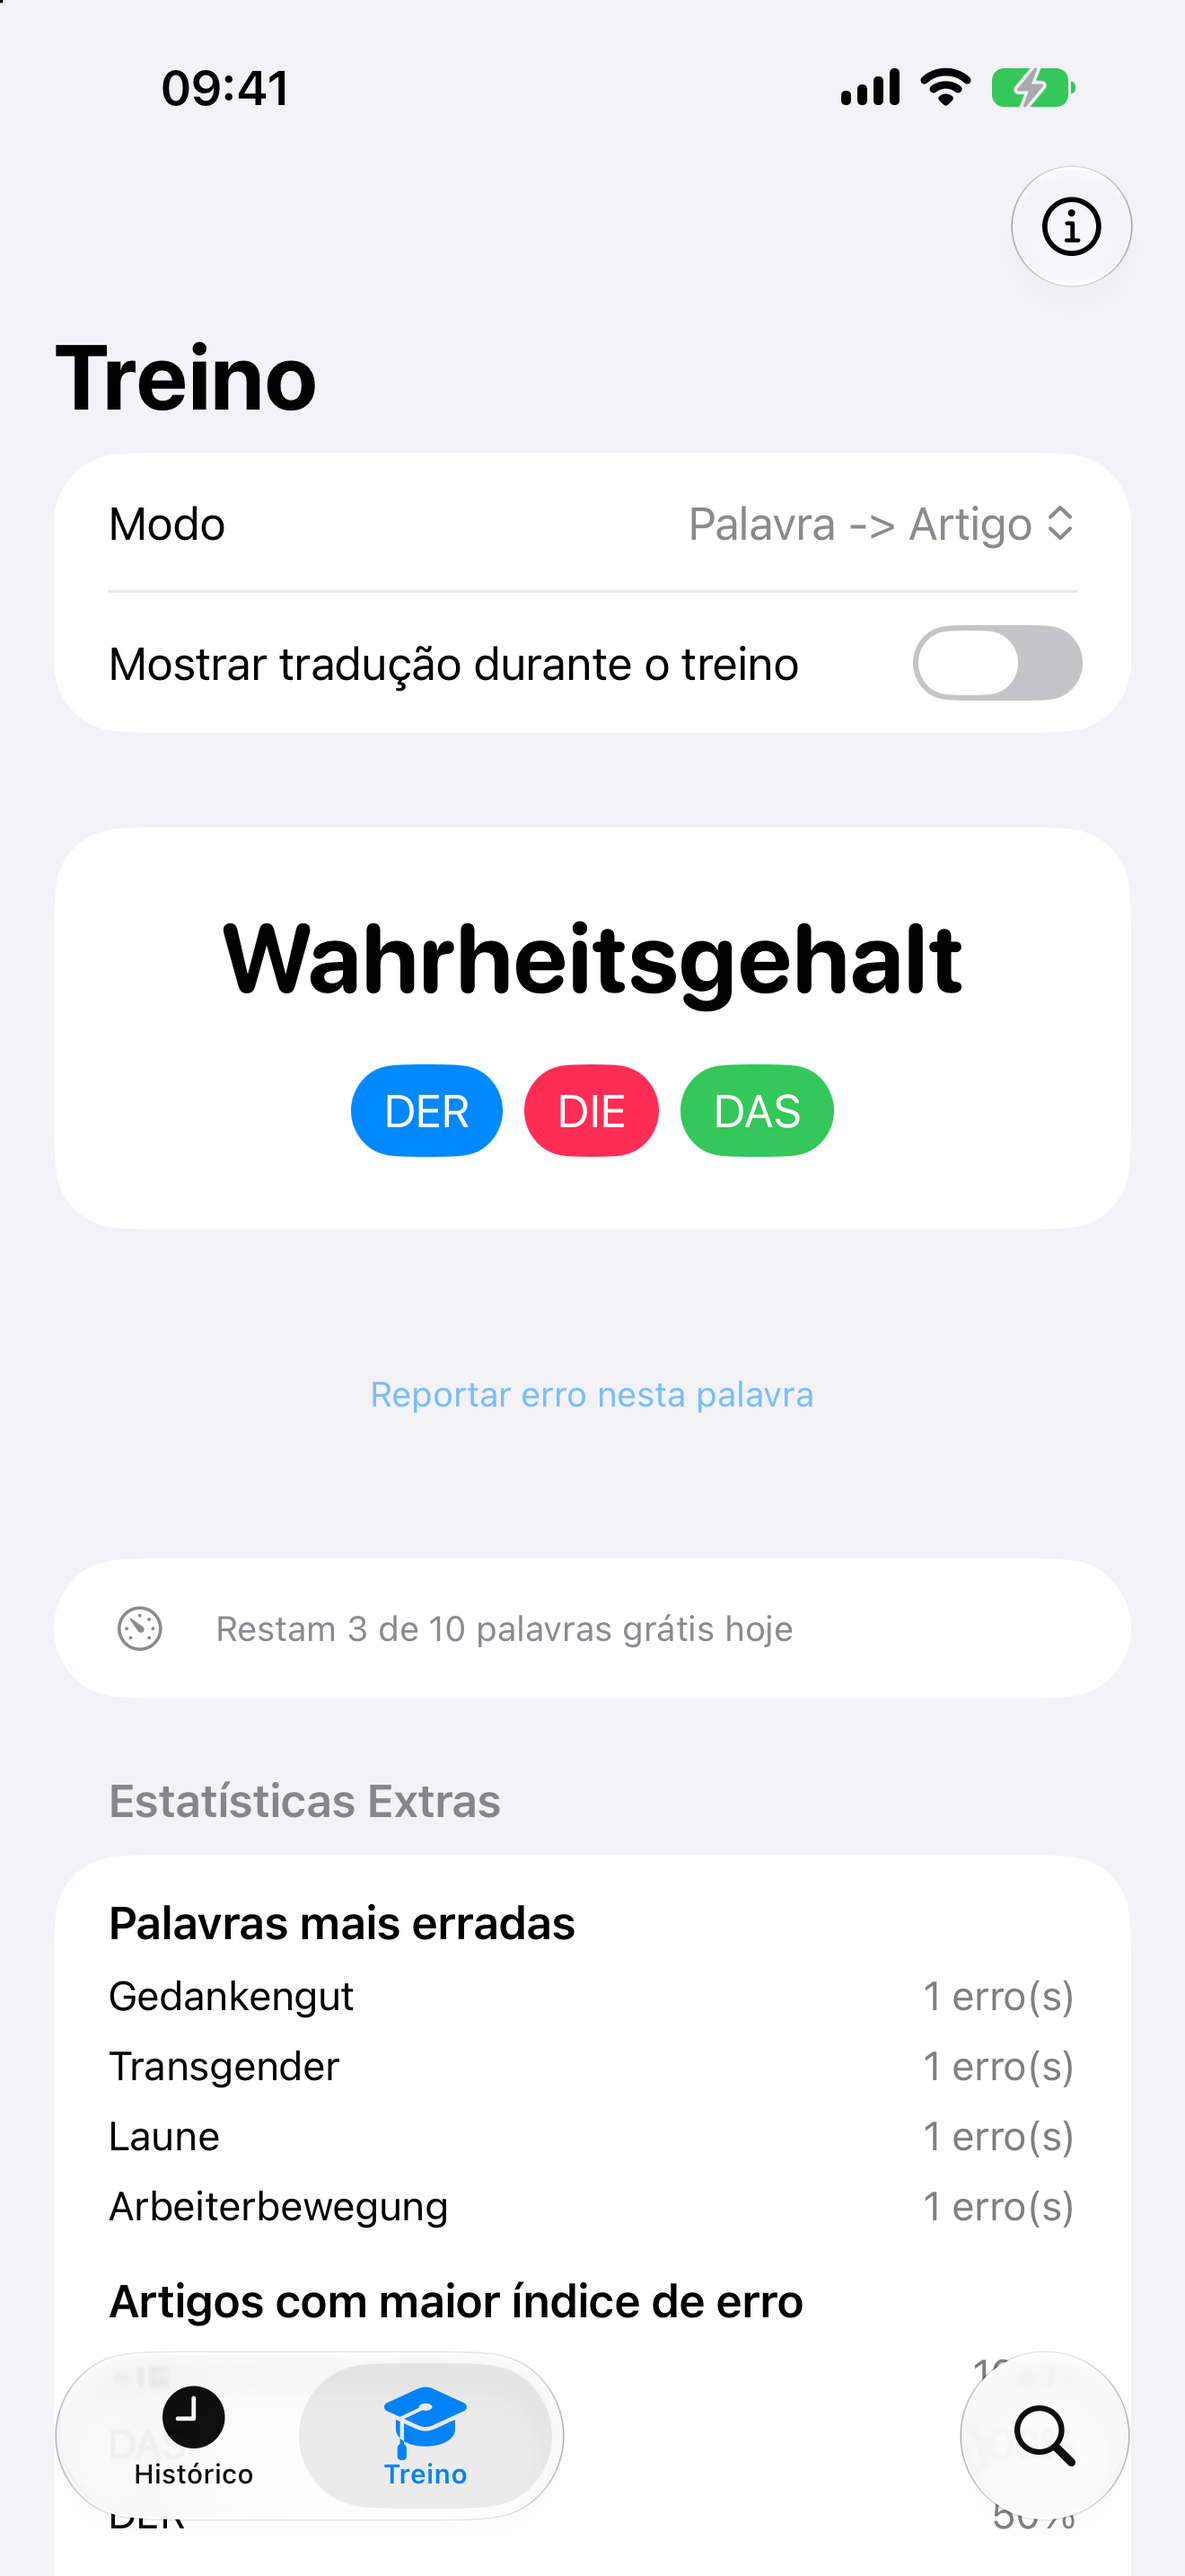
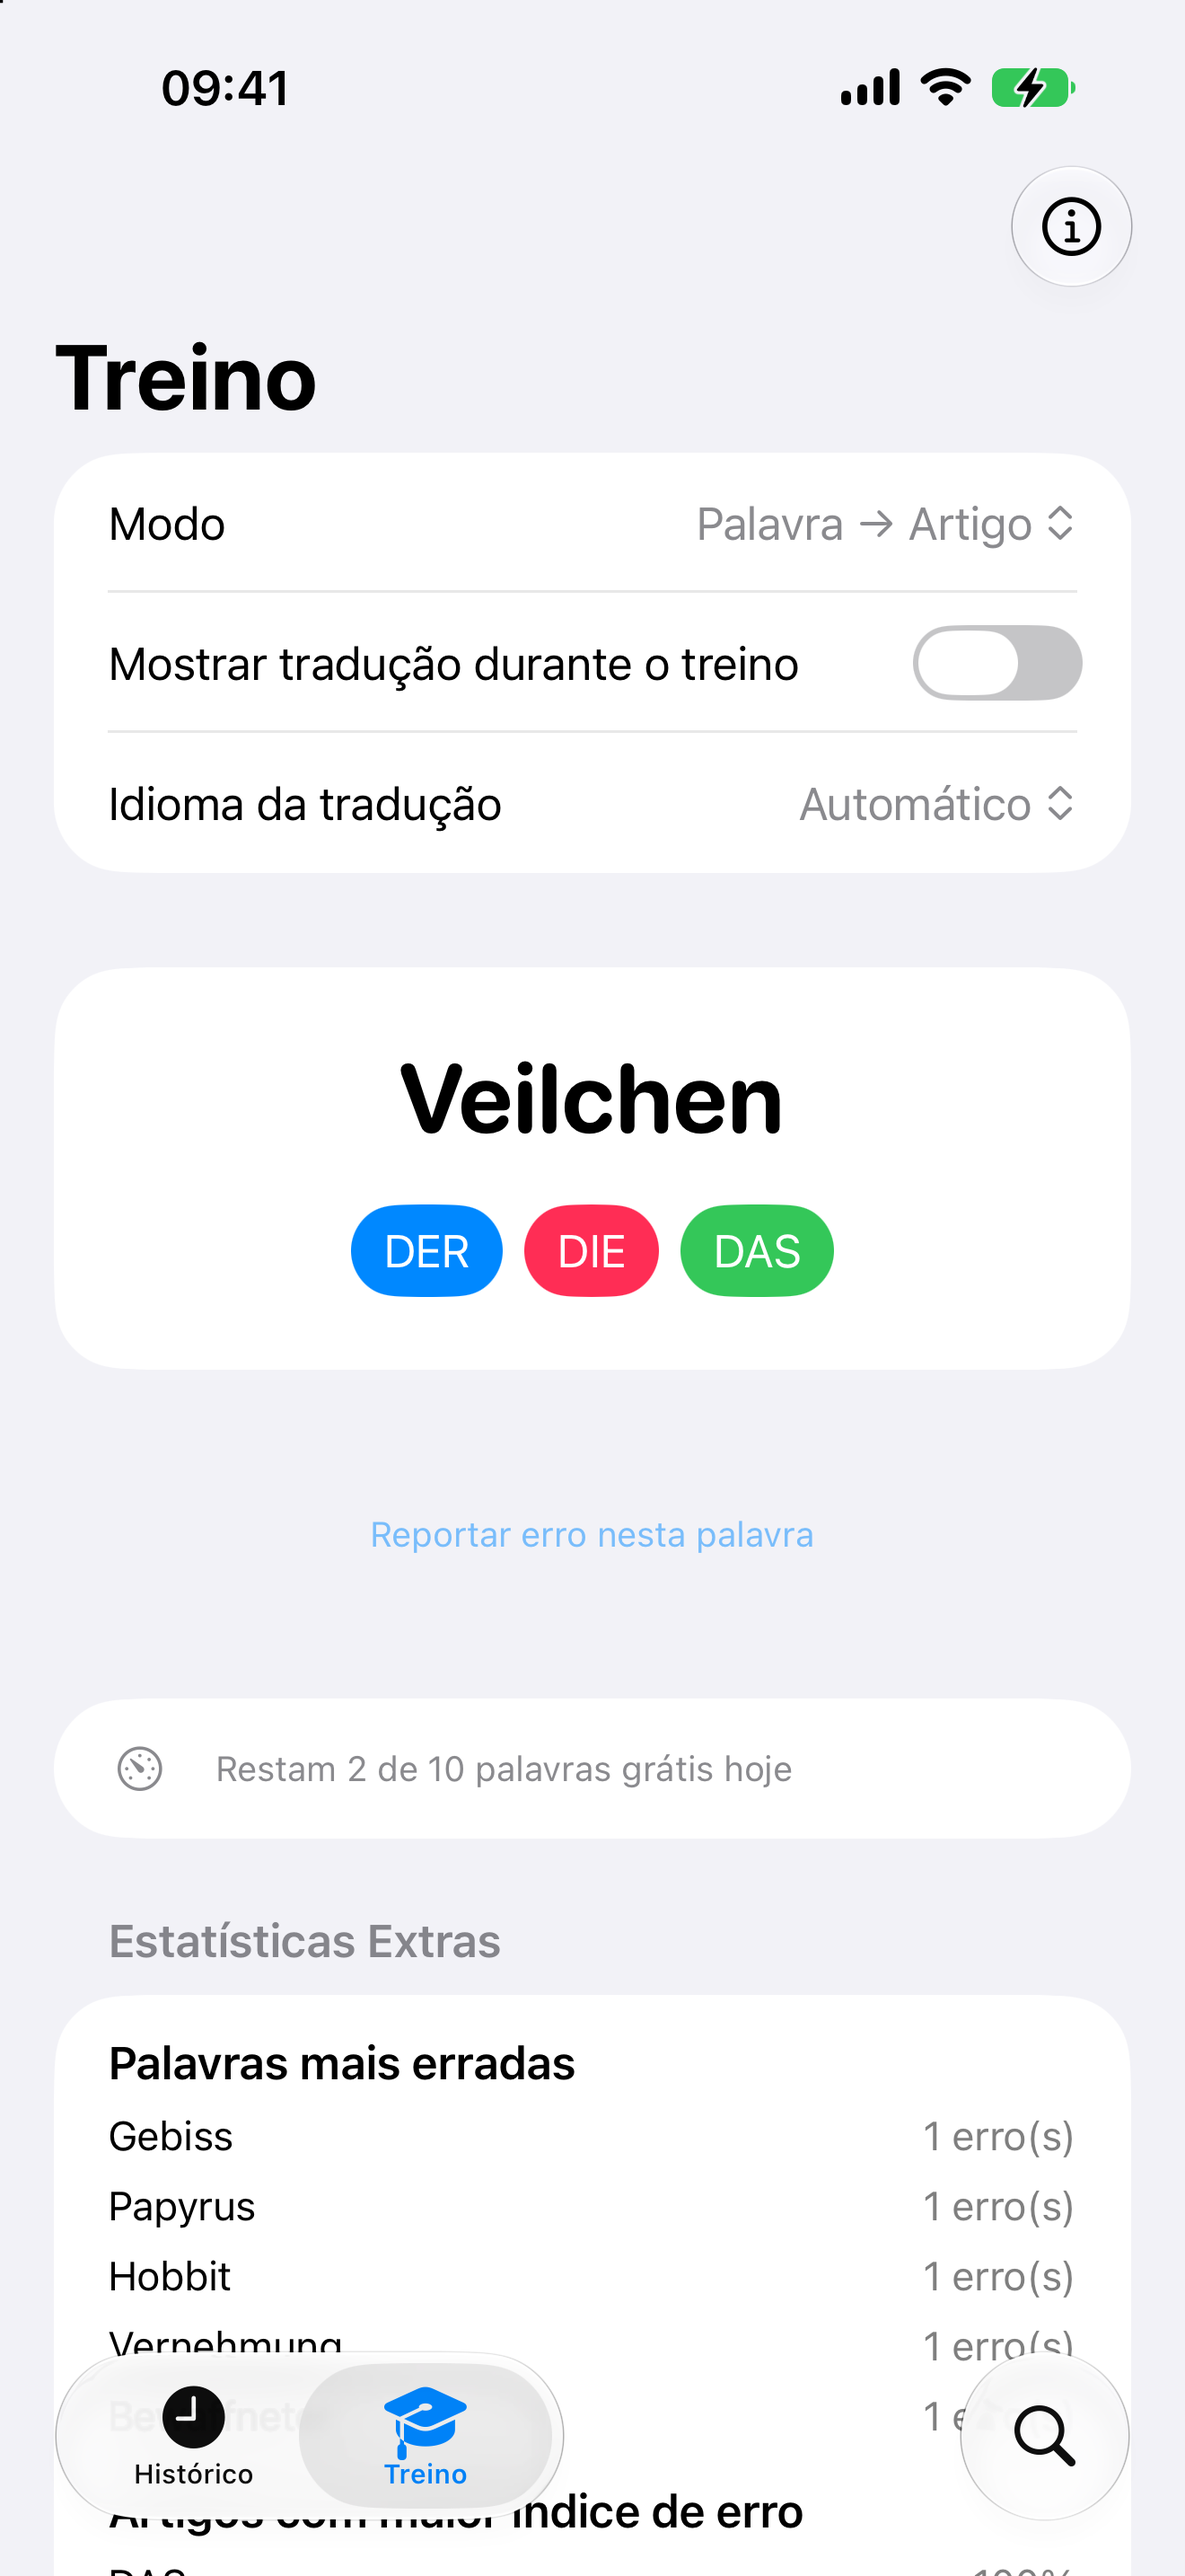
Ficha e captura do treino atualizadas para o app de hoje
A captura mostrava o painel de controles antigo, sem o seletor de idioma,
e a ficha não mencionava o inglês — que agora é argumento de venda, não
detalhe técnico.

A palavra sorteada na captura nova é Veilchen, terminada em -chen: o
mesmo padrão que a descrição cita como um dos que o app ensina a
enxergar.

'idioma' saiu das palavras-chave para caber 'ingles'. Era a mais genérica
das doze.

diff --git a/store/ficha-app-store.md b/store/ficha-app-store.md
@@ -26,7 +26,7 @@ Dicionário e treino diário
 ## Palavras-chave  · limite 100, separadas por vírgula, sem espaços
 
 ```
-alemao,deutsch,artigo,substantivo,vocabulario,gramatica,flashcard,idioma,traducao,plural,a1,b1
+alemao,deutsch,artigo,substantivo,vocabulario,gramatica,flashcard,traducao,plural,a1,b1,ingles
 ```
 
 Não repita palavras que já estão no nome ou no subtítulo — a Apple indexa os três campos
@@ -44,7 +44,10 @@ juntos, e repetir desperdiça caracteres.
 Decorar se cada substantivo alemão é der, die ou das é o obstáculo que quase todo brasileiro encontra ao aprender o idioma. Não existe atalho fácil — e foi para atacar exatamente essa dificuldade que o DerDieDas nasceu.
 
 UMA BASE CURADA, NÃO UM DICIONÁRIO GIGANTE
-São 11.694 substantivos realmente úteis do cotidiano, cada um com artigo, tradução em português e plural. A lista partiu de mais de 90 mil palavras do Wikcionário alemão e passou por um filtro de frequência de uso: só ficaram as que aparecem pelo menos cerca de uma vez por milhão no alemão real. Isso derruba a cauda longa de termos químicos, moedas antigas e palavras que ninguém usa.
+São 11.694 substantivos realmente úteis do cotidiano, cada um com artigo, tradução e plural. A lista partiu de mais de 90 mil palavras do Wikcionário alemão e passou por um filtro de frequência de uso: só ficaram as que aparecem pelo menos cerca de uma vez por milhão no alemão real. Isso derruba a cauda longa de termos químicos, moedas antigas e palavras que ninguém usa.
+
+TRADUÇÃO EM PORTUGUÊS OU EM INGLÊS
+Escolha o idioma da tradução na aba Treino, ou deixe no automático e o app segue o idioma do seu iPhone. Útil para quem já estuda alemão a partir do inglês e prefere não passar pelo português no meio do caminho.
 
 BUSCA INSTANTÂNEA
 Digite em alemão ou em português. A busca ignora acentos e maiúsculas — procurar "strasse" encontra "Straße", "grun" encontra "grün". Também funciona por plural e por artigo, se você quiser ver só as palavras que usam das.
